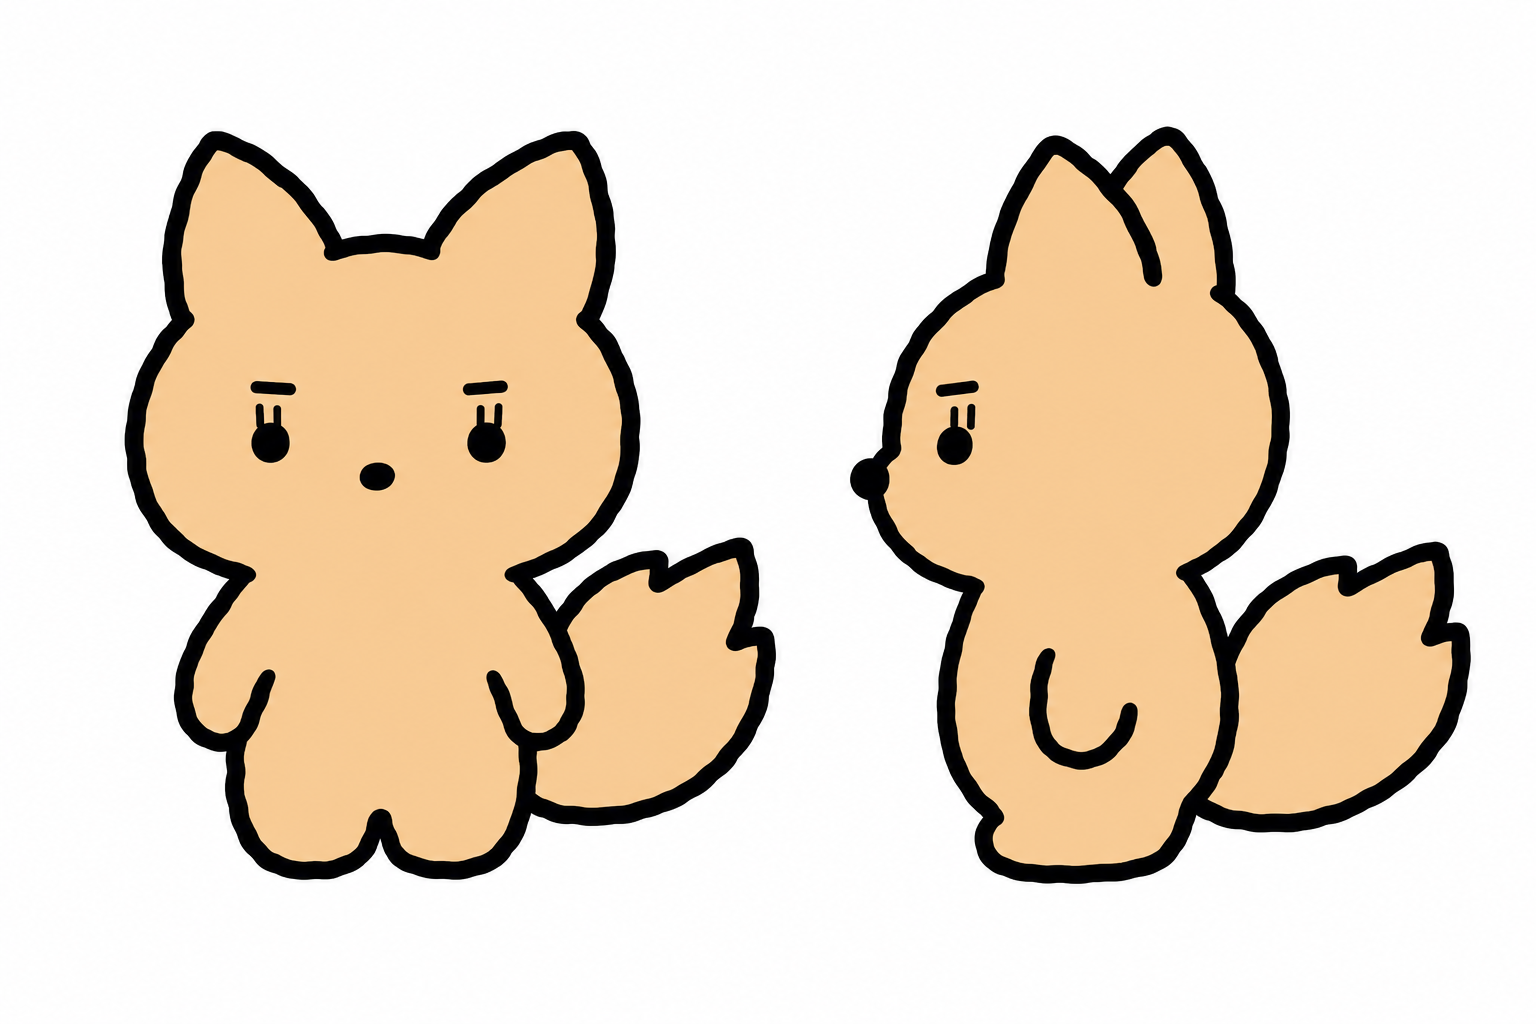
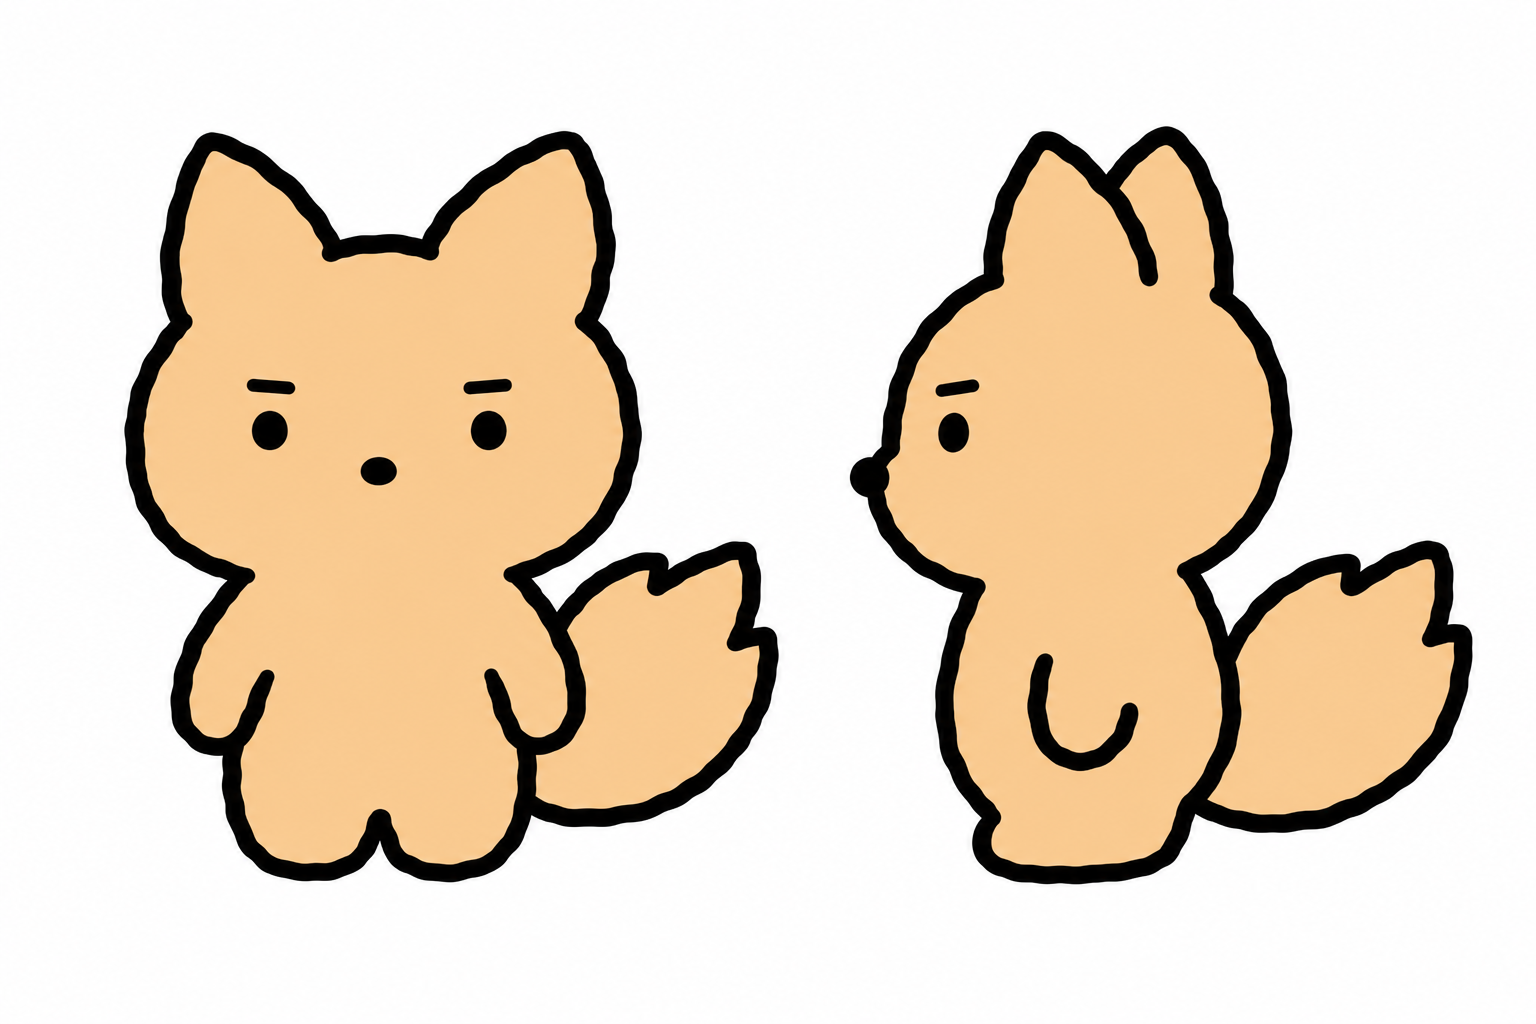
미숙 시트: 속눈썹 제거 후 재생성 (high)

diff --git a/assets/samples/cast-sheets.html b/assets/samples/cast-sheets.html
@@ -34,7 +34,7 @@
   <p class="cap">기본 얼굴 = 점 눈 + 걱정 눈썹. 2행: 도망 · 녹아내림 · 점프 · 엿보기 · 3행: 90도 사과 · 구석 · 까치발 · 통곡 · <a href="dubu-sheet.html">단독 페이지</a> · 프롬프트 <a href="dubu-sheet-prompt.txt">dubu-sheet-prompt.txt</a></p>
   <h2>미숙 — 엄마 · 여우 · 1.2배</h2>
   <img src="misook-sheet.png" alt="미숙 시트">
-  <p class="cap">기본 얼굴 = 점 눈 + 낮은 일자 눈썹 + 눈 위 세로 직선 속눈썹 2획. 2행: 삿대질 · 종종걸음 · 한숨 · 엿보기 · 3행: 놀람 · 팔짱 · 쓰다듬기 · 누그러짐 · 프롬프트 <a href="misook-sheet-prompt.txt">misook-sheet-prompt.txt</a></p>
+  <p class="cap">기본 얼굴 = 점 눈 + 낮은 일자 눈썹. 2행: 삿대질 · 종종걸음 · 한숨 · 엿보기 · 3행: 놀람 · 팔짱 · 쓰다듬기 · 누그러짐 · 프롬프트 <a href="misook-sheet-prompt.txt">misook-sheet-prompt.txt</a></p>
   <h2>덕수 — 아빠 · 사슴 · 1.2배</h2>
   <img src="deoksu-sheet.png" alt="덕수 시트">
   <p class="cap">기본 얼굴 = 대시 눈. 2행: 손 바쁨(앉아서) · 뒷모습 손 인사 · 각 잡힌 끄덕임 · 업어주기 · 3행: 놀람 · 잠 · 조용한 뿌듯함 · 기다림 · 프롬프트 <a href="deoksu-sheet-prompt.txt">deoksu-sheet-prompt.txt</a></p>

diff --git a/assets/samples/make_cast_prompts.py b/assets/samples/make_cast_prompts.py
@@ -46,12 +46,12 @@ Row 3, comic reaction poses:
 CAST = {
 "misook": dict(
     who="a soft-orange fox named Misook",
-    side_note="one dot eye with its flat eyebrow stroke above and its two short straight vertical eyelash lines standing up from the top of the eye",
+    side_note="one dot eye with its flat eyebrow stroke above it",
     design="""Misook design (identical in all figures):
 - soft orange #F6CA9E body, ONE solid color everywhere including face, ears, tail. No markings, no white chest, no dark ear tips, no dark paws
 - 2-head-tall potato body, stubby limbs, large pointed triangular ears, one big bushy tail curling up beside the body
-- DEFAULT FACE: two small black dot eyes set wide apart; two short straight black eyebrow strokes pressed low and flat just above the eyes (stern, in charge); and on EACH eye two short thin straight VERTICAL black lines standing straight up from the top edge of the eye, parallel to each other, not slanted, not curved (two little upright eyelash lines per eye, between the eye and the eyebrow). One small dark dot nose. NO MOUTH, NO BLUSH, no ribbon, no clothes, no props
-- The flat eyebrows and the two upright vertical eyelash lines per eye appear in EVERY figure, even when the eyes change shape (dots, closed upward arcs, flat dashes, bigger round dots, ">.<")
+- DEFAULT FACE: two small black dot eyes set wide apart; two short straight black eyebrow strokes pressed low and flat just above the eyes (stern, in charge). One small dark dot nose. NO MOUTH, NO BLUSH, NO EYELASHES of any kind, no ribbon, no clothes, no props
+- The flat eyebrows appear in EVERY figure, even when the eyes change shape (dots, closed upward arcs, flat dashes, bigger round dots, ">.<")
 - personality: the mom. Nags because she worries; scolds first, notices first. Brisk, capable, always moving""",
     row2="""POINTING (leaning forward, one arm stretched out pointing with a finger, other hand on hip, small motion lines by the pointing arm);
 RUSHING (seen from the side, hurrying forward with quick short steps, tail streaming behind, motion lines, one sweat drop);

diff --git a/assets/characters.md b/assets/characters.md
@@ -9,7 +9,7 @@
 | 요소 | 기준 |
 |---|---|
 | 비율 | 2등신. 감자형 몸통에 머리가 몸보다 큼. 팔다리는 짧은 돌기 |
-| 얼굴 | 코는 작은 점(조류는 부리), **입 없음, 볼터치 없음**, 리본 금지. 캐릭터별 **기본 얼굴** 고정 — 두부: 점 눈 + 걱정 눈썹 2획(안쪽 올라감) / 미숙: 점 눈 + 낮게 깔린 일자 눈썹 + 눈 위로 세로 직선 속눈썹 2획 / 덕수: 대시 눈(무표정) / 콩: 웃는 호 눈 / 탱자: 하이라이트 있는 초롱초롱 눈 / 소라: 내리깐 점 눈 + 밀착한 날개 / 밤톨: 점 눈 + 브릿지만 있는 동그란 안경(귀걸이 없음). 눈썹·속눈썹·안경은 모든 도에 유지하고, 눈 모양은 감정에 따라 초롱초롱·`>.<`·호·대시로 바뀌어도 된다. 자세는 과장·코믹 허용, 컷마다 비율이 완벽히 같을 필요 없음 |
+| 얼굴 | 코는 작은 점(조류는 부리), **입 없음, 볼터치 없음**, 리본·속눈썹 금지. 캐릭터별 **기본 얼굴** 고정 — 두부: 점 눈 + 걱정 눈썹 2획(안쪽 올라감) / 미숙: 점 눈 + 낮게 깔린 일자 눈썹 / 덕수: 대시 눈(무표정) / 콩: 웃는 호 눈 / 탱자: 하이라이트 있는 초롱초롱 눈 / 소라: 내리깐 점 눈 + 밀착한 날개 / 밤톨: 점 눈 + 브릿지만 있는 동그란 안경(귀걸이 없음). 눈썹·안경은 모든 도에 유지하고, 눈 모양은 감정에 따라 초롱초롱·`>.<`·호·대시로 바뀌어도 된다. 자세는 과장·코믹 허용, 컷마다 비율이 완벽히 같을 필요 없음 |
 | 선 | 검정, 굵기 불균일한 손그림 선, 닫힌 외곽선 |
 | 채색 | 플랫, 몸에 명암 없음. **바디 단색**, 무늬·반점·마커 없음. 식별은 실루엣(종)과 크기로만. 발밑에 납작한 연회색 타원 **접지 그림자 1개** (EP.03부터, EP.01·02는 없음) |
 | 배경 | 흰색. 소품 1~2개 |
